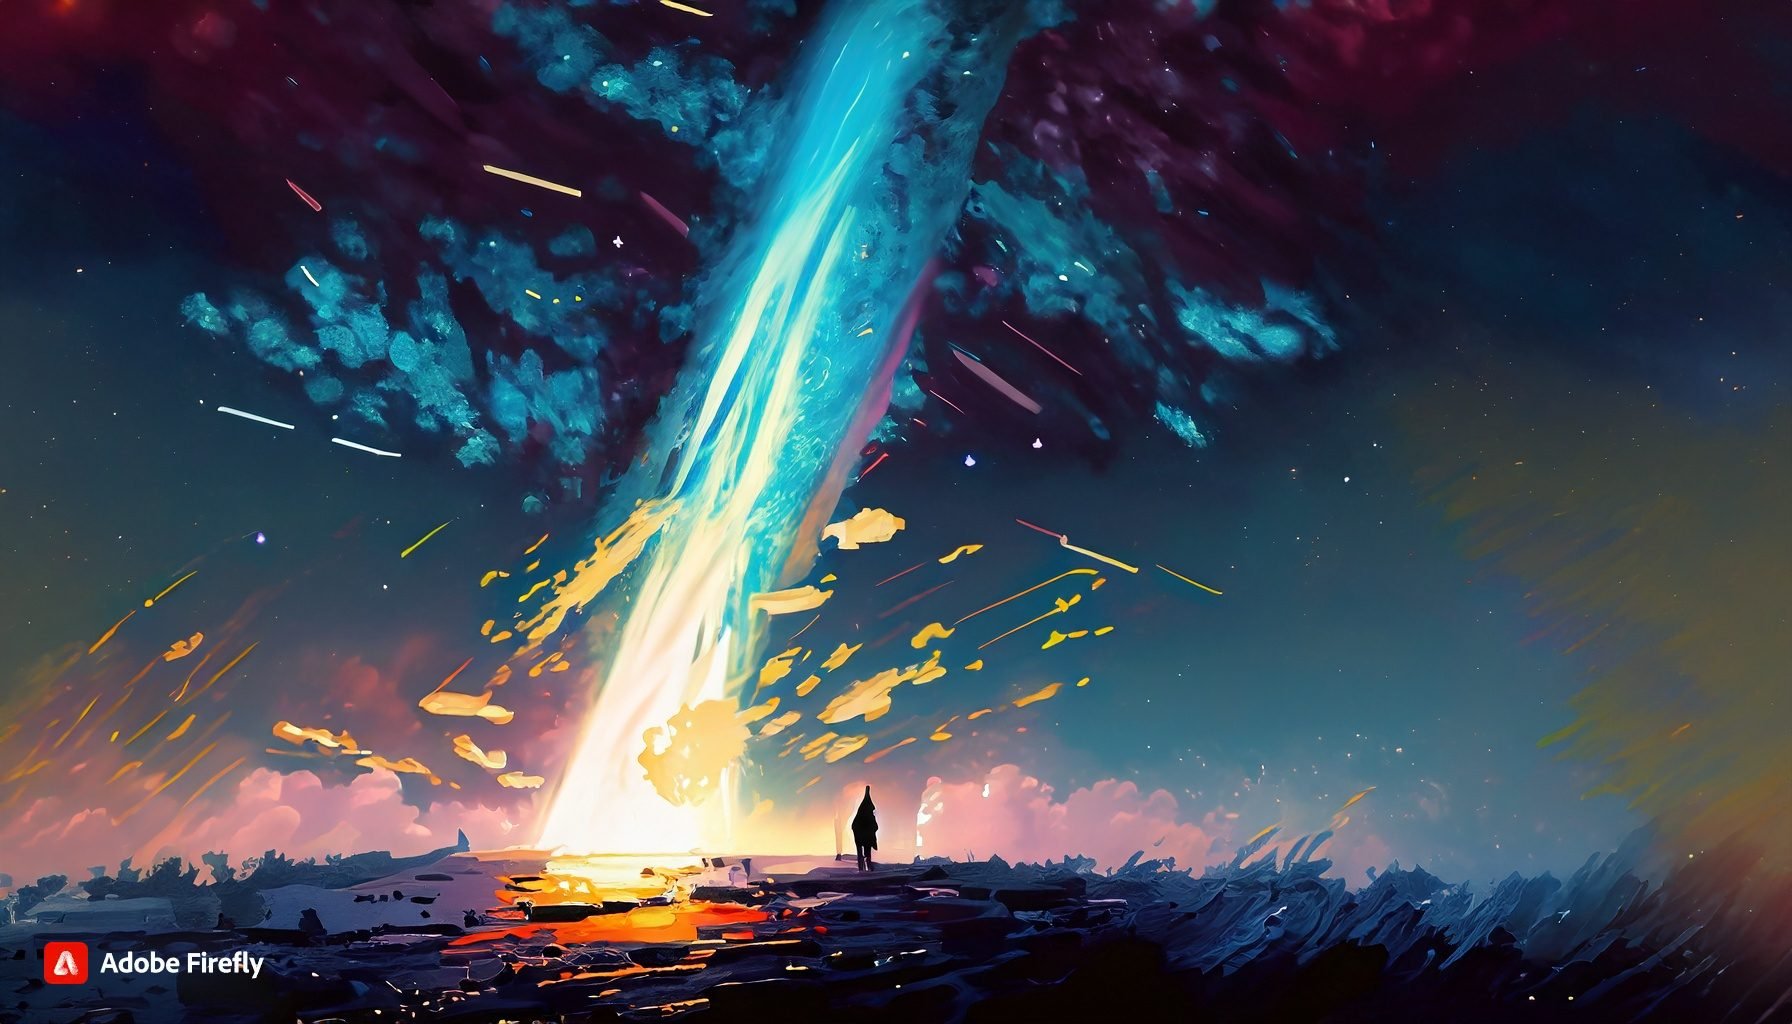
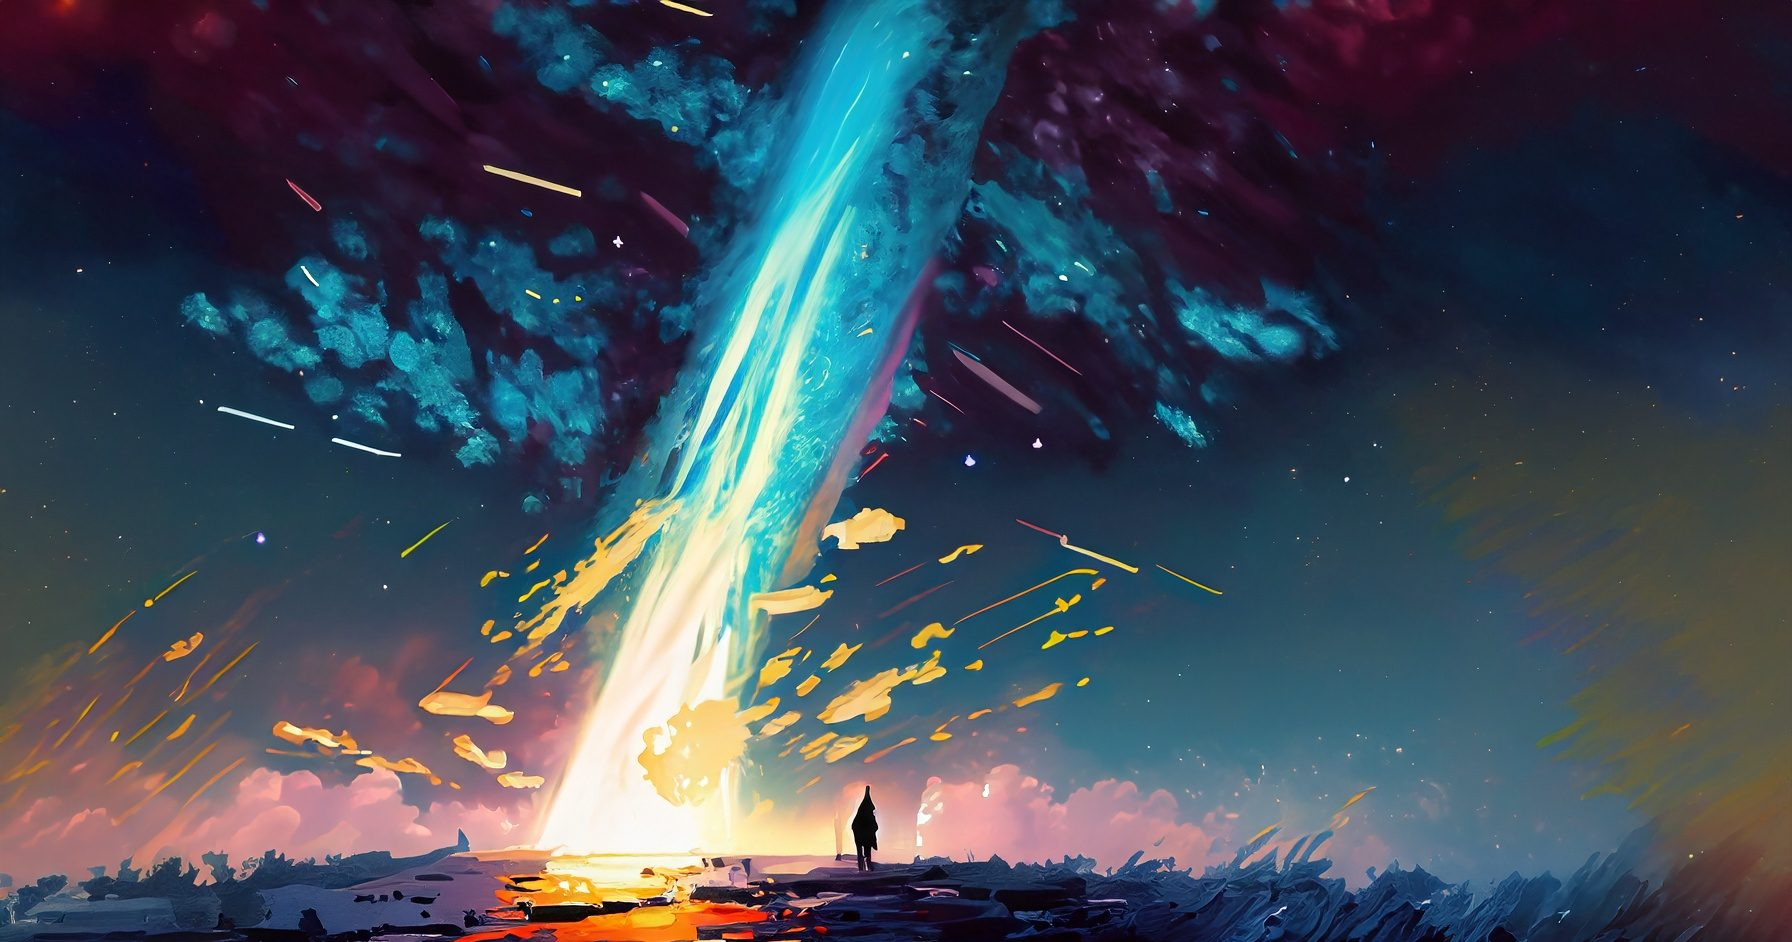
Layout: level backdrop, bigger answer buttons, game names, new buttons; drop Firefly watermarks
- Soft dark vignette behind every level so text and buttons read on busy backgrounds
- 音速競技場 / ㄅㄅ森林 answer buttons: 9vmin cream circles with bold text (tone marks were hard to tell apart)
- Unlit stars at 40% instead of 10%
- Game selector: names under the icons, gold highlight, CSS text buttons instead of the
  teal images, message on a dark bar, buttons moved above it
- Volume control on a translucent pill; waveform box without the grey input-like fill
- Crop the bottom 8% of game1-4, endding and hint/tips-background to remove the
  "Adobe Firefly" watermark (re-encoded from the originals)

diff --git a/client/src/games/GameSelector.js b/client/src/games/GameSelector.js
@@ -212,19 +212,31 @@ const GameSelector = ({ username }) => {
                 <>
                     <div className="game-icons-container fade-in-and-grow">
                         <div className="game-row">
-                            <img src={asset('/image/game1.jpg')} alt="Game Icon 1" className={`game-icon ${selectedGame === 1 ? 'highlight' : ''} ${!availableGames.includes(1) ? 'disabled' : ''}`} />
-                            <img src={asset('/image/game2.jpg')} alt="Game Icon 2" className={`game-icon ${selectedGame === 2 ? 'highlight' : ''} ${!availableGames.includes(2) ? 'disabled' : ''}`} />
+                            <div className="game-tile">
+                                <img src={asset('/image/game1.jpg')} alt={GAMES[1].name} className={`game-icon ${selectedGame === 1 ? 'highlight' : ''} ${!availableGames.includes(1) ? 'disabled' : ''}`} />
+                                <span className="game-tile-name">{GAMES[1].name}</span>
+                            </div>
+                            <div className="game-tile">
+                                <img src={asset('/image/game2.jpg')} alt={GAMES[2].name} className={`game-icon ${selectedGame === 2 ? 'highlight' : ''} ${!availableGames.includes(2) ? 'disabled' : ''}`} />
+                                <span className="game-tile-name">{GAMES[2].name}</span>
+                            </div>
                         </div>
                         <div className="game-row">
-                            <img src={asset('/image/game3.jpg')} alt="Game Icon 3" className={`game-icon ${selectedGame === 3 ? 'highlight' : ''} ${!availableGames.includes(3) ? 'disabled' : ''}`} />
-                            <img src={asset('/image/game4.jpg')} alt="Game Icon 4" className={`game-icon ${selectedGame === 4 ? 'highlight' : ''} ${!availableGames.includes(4) ? 'disabled' : ''}`} />
+                            <div className="game-tile">
+                                <img src={asset('/image/game3.jpg')} alt={GAMES[3].name} className={`game-icon ${selectedGame === 3 ? 'highlight' : ''} ${!availableGames.includes(3) ? 'disabled' : ''}`} />
+                                <span className="game-tile-name">{GAMES[3].name}</span>
+                            </div>
+                            <div className="game-tile">
+                                <img src={asset('/image/game4.jpg')} alt={GAMES[4].name} className={`game-icon ${selectedGame === 4 ? 'highlight' : ''} ${!availableGames.includes(4) ? 'disabled' : ''}`} />
+                                <span className="game-tile-name">{GAMES[4].name}</span>
+                            </div>
                         </div>
                     </div>
                     <div className="controls">
                         {gameRounds === 0 && !canConfirm && (
                             <div className="button-container fade-in-and-grow">
-                                <div className="game-button start-button" onClick={startGameAnimation}></div>
-                                <div className="game-button exit-button" onClick={exitGame}></div>
+                                <div className="game-button start-button" onClick={startGameAnimation}>遊戲開始</div>
+                                <div className="game-button exit-button" onClick={exitGame}>退出遊戲</div>
                             </div>
                         )}
                         <div className="text-container ">
@@ -260,7 +272,7 @@ const GameSelector = ({ username }) => {
                         <AnimatedTitle text={`「小怪獸成功在今天的冒險中找到了一些燃料，但還不足以發射火箭，還請同學多多幫忙小怪獸尋找燃料，讓他可以早日回家😄」`} />
                     </div>
                     <div className="button-container fade-in-and-grow">
-                        <div className="game-button exit-button" onClick={exitGame}></div>
+                        <div className="game-button exit-button" onClick={exitGame}>退出遊戲</div>
                     </div>
                 </>
             )}
@@ -276,7 +288,7 @@ const GameSelector = ({ username }) => {
                         <AnimatedTitle text={`「小怪獸的飛行器填充完燃料，可以踏上返家的旅程，也感謝同學一路來的幫助，在這幾週一起成長，遊戲雖然結束，但同學還是要把握機會繼續增進自己的能力😄」`} />
                     </div>
                     <div className="button-container fade-in-and-grow">
-                        <div className="game-button exit-button" onClick={exitGame}></div>
+                        <div className="game-button exit-button" onClick={exitGame}>退出遊戲</div>
                     </div>
                 </>
             )}

diff --git a/client/src/games/GameSelector.css b/client/src/games/GameSelector.css
@@ -28,16 +28,33 @@
 }
 
 
+.game-tile {
+    margin: 1.2vmin 2vmin;
+    display: flex;
+    flex-direction: column;
+    align-items: center;
+    gap: 0.8vmin;
+}
+
 .game-icon {
-    margin: 20px;
-    flex-basis: calc(50% - 40px);
-    width: 17.5vw; /* 更改此行 */
+    width: 17.5vw;
     height: auto;
+    border-radius: 1.2vmin;
+    transition: box-shadow 0.15s, transform 0.15s;
+}
+
+/* 遊戲名稱：沒有名稱時只看圖片很難知道是哪個遊戲 */
+.game-tile-name {
+    color: #fff;
+    font-size: 2.6vmin;
+    font-weight: bold;
+    letter-spacing: 0.1em;
+    text-shadow: 0 0 4px rgba(0, 0, 0, 0.9), 0 2px 6px rgba(0, 0, 0, 0.7);
 }
 
 .highlight {
-    border: 3px white;
-    box-shadow: 0px 0px 10px 5px white;
+    box-shadow: 0 0 0 0.5vmin #ffe08a, 0 0 3vmin 1vmin rgba(255, 224, 138, 0.85);
+    transform: scale(1.04);
 }
 
 .outer-container {
@@ -86,16 +103,23 @@
 .button-container {
     position: absolute;
     right: 11.7vw;
-    bottom: 13.9vh;
+    bottom: 25vh; /* 在下方訊息列的上面，不會和訊息重疊 */
     display: flex;
     flex-direction: column;
-    gap: 60px;
+    gap: 3.5vmin;
 }
 
+/* 文字按鈕 (之前是藍綠色的圖片，和畫面的暖色調不搭) */
 .game-button {
     z-index: 50;
-    width: 13.7vw;
-    height: 11.1vh;
+    min-width: 24vmin;
+    padding: 2vmin 3vmin;
+    border-radius: 999px;
+    font-size: 3.4vmin;
+    font-weight: bold;
+    letter-spacing: 0.15em;
+    text-align: center;
+    user-select: none;
     cursor: pointer;
     transition: transform 0.2s;
 }
@@ -109,26 +133,32 @@
     }
 
 .start-button {
-    background-image: url('../../public/image/icon/start-game.png');
-    background-size: contain;
-    background-repeat: no-repeat;
-    background-position: center;
+    color: #4a2c05;
+    background: linear-gradient(#ffe8a3, #ffb547);
+    box-shadow: 0 0.7vmin 0 #c47a16, 0 1.2vmin 2.4vmin rgba(0, 0, 0, 0.45);
 }
 
 .exit-button {
-    background-image: url('../../public/image/icon/exit-game.png');
-    background-size: contain;
-    background-repeat: no-repeat;
-    background-position: center;
+    color: #1f2d45;
+    background: linear-gradient(#f1f5fb, #b9c7da);
+    box-shadow: 0 0.7vmin 0 #7c8ba2, 0 1.2vmin 2.4vmin rgba(0, 0, 0, 0.45);
 }
 .text-container {
     position: absolute;
     bottom: 15vh; /* 調整這個值來更改距離底部的位置 */
     left: 50%;
     transform: translate(-50%, 0);
+    max-width: 60vw;
+    padding: 0 3vmin;
+    border-radius: 2vmin;
+    background: rgba(10, 14, 30, 0.55); /* 文字底色：直接疊在怪獸和雪地上很難讀 */
     color: white;
     font-size: 1.3rem;
     text-align: center;
+}
+
+.text-container h1 {
+    margin: 1.5vmin 0;
 }
 .endgame-text-container {
     position: absolute;

diff --git a/client/src/games/bopomofoForest/BForest.css b/client/src/games/bopomofoForest/BForest.css
@@ -19,18 +19,21 @@
 }
 
 .grid-container3 button {
-    width: 4vw; /* 使用视口宽度的百分比 */
-    height: 4vw; /* 保持宽高一致 */
-    min-width: 40px; /* 设置最小宽度 */
-    min-height: 40px; /* 设置最小高度 */
-    border-radius: 50%; /* 圆形按钮 */
-    background-color: rgb(89, 95, 100); /* 按钮背景颜色 */
-    color: white; /* 文本颜色 */
-    border: none;
+    /* 放大並提高對比：注音的聲調符號 (ˇ ˋ ˊ) 太小會分不出來 */
+    width: 9vmin;
+    height: 9vmin;
+    min-width: 56px;
+    min-height: 56px;
+    border-radius: 50%;
+    background: #fff6df;
+    color: #2a2a2a;
+    border: 0.5vmin solid #ffc65c;
+    box-shadow: 0 0.6vmin 1.6vmin rgba(0, 0, 0, 0.45);
     cursor: pointer;
-    font-size: 1.5rem; /* 文本大小 */
-    transition: transform 0.3s ease ; /* 过渡动画 */
-}   
+    font-size: 3.8vmin;
+    font-weight: bold;
+    transition: transform 0.3s ease, box-shadow 0.3s ease;
+}
 
 .grid-container3 button:hover {
     transform: scale(1.1); /* 鼠标悬停时放大按钮 */

diff --git a/client/src/components/AudioVisualizer.js b/client/src/components/AudioVisualizer.js
@@ -41,9 +41,8 @@ const AudioVisualizer = ({ audioIndex }) => {
 
             analyser.getByteTimeDomainData(dataArray);
 
-            // Clear canvas with semi-transparent background
-            ctx.fillStyle = 'rgba(200, 200, 200, 0.2)';
-            ctx.fillRect(0, 0, width, height);
+            // 每一幀清空 (之前疊半透明灰色，看起來像一個空的輸入框)
+            ctx.clearRect(0, 0, width, height);
 
             // Draw waveform
             ctx.lineWidth = 3;
@@ -87,7 +86,7 @@ const AudioVisualizer = ({ audioIndex }) => {
         };
     }, [audioIndex, analyser, getCurrentAudioTime, getAudioDuration, dimensions]);  // Include dimensions in dependency array
 
-    return <canvas ref={canvasRef} width={dimensions.width} height={dimensions.height} style={{ border: '1px solid #ddd', maxWidth: '100%' }} />;
+    return <canvas ref={canvasRef} width={dimensions.width} height={dimensions.height} style={{ borderRadius: '1.5vmin', background: 'rgba(0, 0, 0, 0.25)', maxWidth: '100%' }} />;
 };
 
 export default AudioVisualizer;

diff --git a/client/src/games/speedArena/SpeedRun.css b/client/src/games/speedArena/SpeedRun.css
@@ -71,17 +71,20 @@
 }
 
 .grid-container2 button {
-    width: 4vw; /* 使用视口宽度的百分比 */
-    height: 4vw; /* 保持宽高一致 */
-    min-width: 40px; /* 设置最小宽度 */
-    min-height: 40px; /* 设置最小高度 */
-    border-radius: 50%; /* 圆形按钮 */
-    background-color: rgb(89, 95, 100); /* 按钮背景颜色 */
-    color: white; /* 文本颜色 */
-    border: none;
+    /* 放大並提高對比：注音的聲調符號 (ˇ ˋ ˊ) 太小會分不出來 */
+    width: 9vmin;
+    height: 9vmin;
+    min-width: 56px;
+    min-height: 56px;
+    border-radius: 50%;
+    background: #fff6df;
+    color: #2a2a2a;
+    border: 0.5vmin solid #ffc65c;
+    box-shadow: 0 0.6vmin 1.6vmin rgba(0, 0, 0, 0.45);
     cursor: pointer;
-    font-size: 1.5rem; /* 文本大小 */
-    transition: transform 0.3s ease; /* 过渡动画 */
+    font-size: 3.8vmin;
+    font-weight: bold;
+    transition: transform 0.3s ease, box-shadow 0.3s ease;
 }
 
 .grid-container2 button:hover {

diff --git a/client/src/components/ScoreStars.js b/client/src/components/ScoreStars.js
@@ -25,7 +25,7 @@ function ShinyStar({ fill = 0 }) {
     }, [active, size]);
 
     const baseProps = useSpring({
-        opacity: active ? 1 : fill > 0 ? 0.6 : 0.1,
+        opacity: active ? 1 : fill > 0 ? 0.75 : 0.4, // 沒亮的星星之前只有 0.1，在背景上幾乎看不見
         config: { duration: 1000 },
     });
     const fillProps = useSpring({ width: size * Math.min(fill, 1), config: { duration: 1000 } });
@@ -82,7 +82,7 @@ function ShinyStar({ fill = 0 }) {
             {/* 主星星 */}
             <animated.polygon
                 points={points}
-                fill={active ? "gold" : "grey"}
+                fill={active ? "gold" : "#c9ced6"}
                 stroke="black"
                 strokeWidth={`${size / 50}px`} // 动态描边宽度
                 style={baseProps}

diff --git a/client/src/games/GameComponent.js b/client/src/games/GameComponent.js
@@ -123,6 +123,8 @@ const GameComponent = ({ gameType, selectedGames, username, onGameEnd }) => {
 
     return (
         <>
+            {/* 遊戲進行中在背景圖上加一層暗色漸層，題目和按鈕才不會被花俏的背景吃掉 */}
+            {isGameStarted && !showExpandedTips && <div className="level-backdrop" />}
             {/* 顯示小訣竅時移除遊戲畫面：否則最後一關看不見的選項按鈕會蓋在小訣竅上，擋住「點擊後繼續」 */}
             {!showExpandedTips && <div className="game-container">
                 <div className="fade-in-and-grow">

diff --git a/client/src/components/VolumeControl.css b/client/src/components/VolumeControl.css
@@ -5,12 +5,15 @@
     z-index: 1000;
     display: flex;
     align-items: center;
+    padding: 8px 16px;
+    border-radius: 999px;
+    background: rgba(10, 14, 30, 0.5); /* 看得出是操作元件，不會和背景的怪獸混在一起 */
 }
 
     .volume-container img {
-        width: 48px;
-        height: 48px;
-        margin-right: 20px;
+        width: 36px;
+        height: 36px;
+        margin-right: 12px;
         filter: invert(100%); /* 反白效果，將 100% 表示完全反白 */
     }
 

diff --git a/client/src/games/GameComponent.css b/client/src/games/GameComponent.css
@@ -93,6 +93,15 @@
     }
 }
 
+/* 遊戲進行中：背景中央壓暗，四周保留背景圖 */
+.level-backdrop {
+    position: fixed;
+    inset: 0;
+    z-index: 999;
+    pointer-events: none;
+    background: radial-gradient(ellipse 62% 70% at 50% 32%, rgba(8, 12, 28, 0.68) 0%, rgba(8, 12, 28, 0.52) 55%, rgba(8, 12, 28, 0) 100%);
+}
+
 /* 題目載入中 / 載入失敗 / 這一關出錯 */
 .level-status {
     padding: 3vmin 5vmin;
